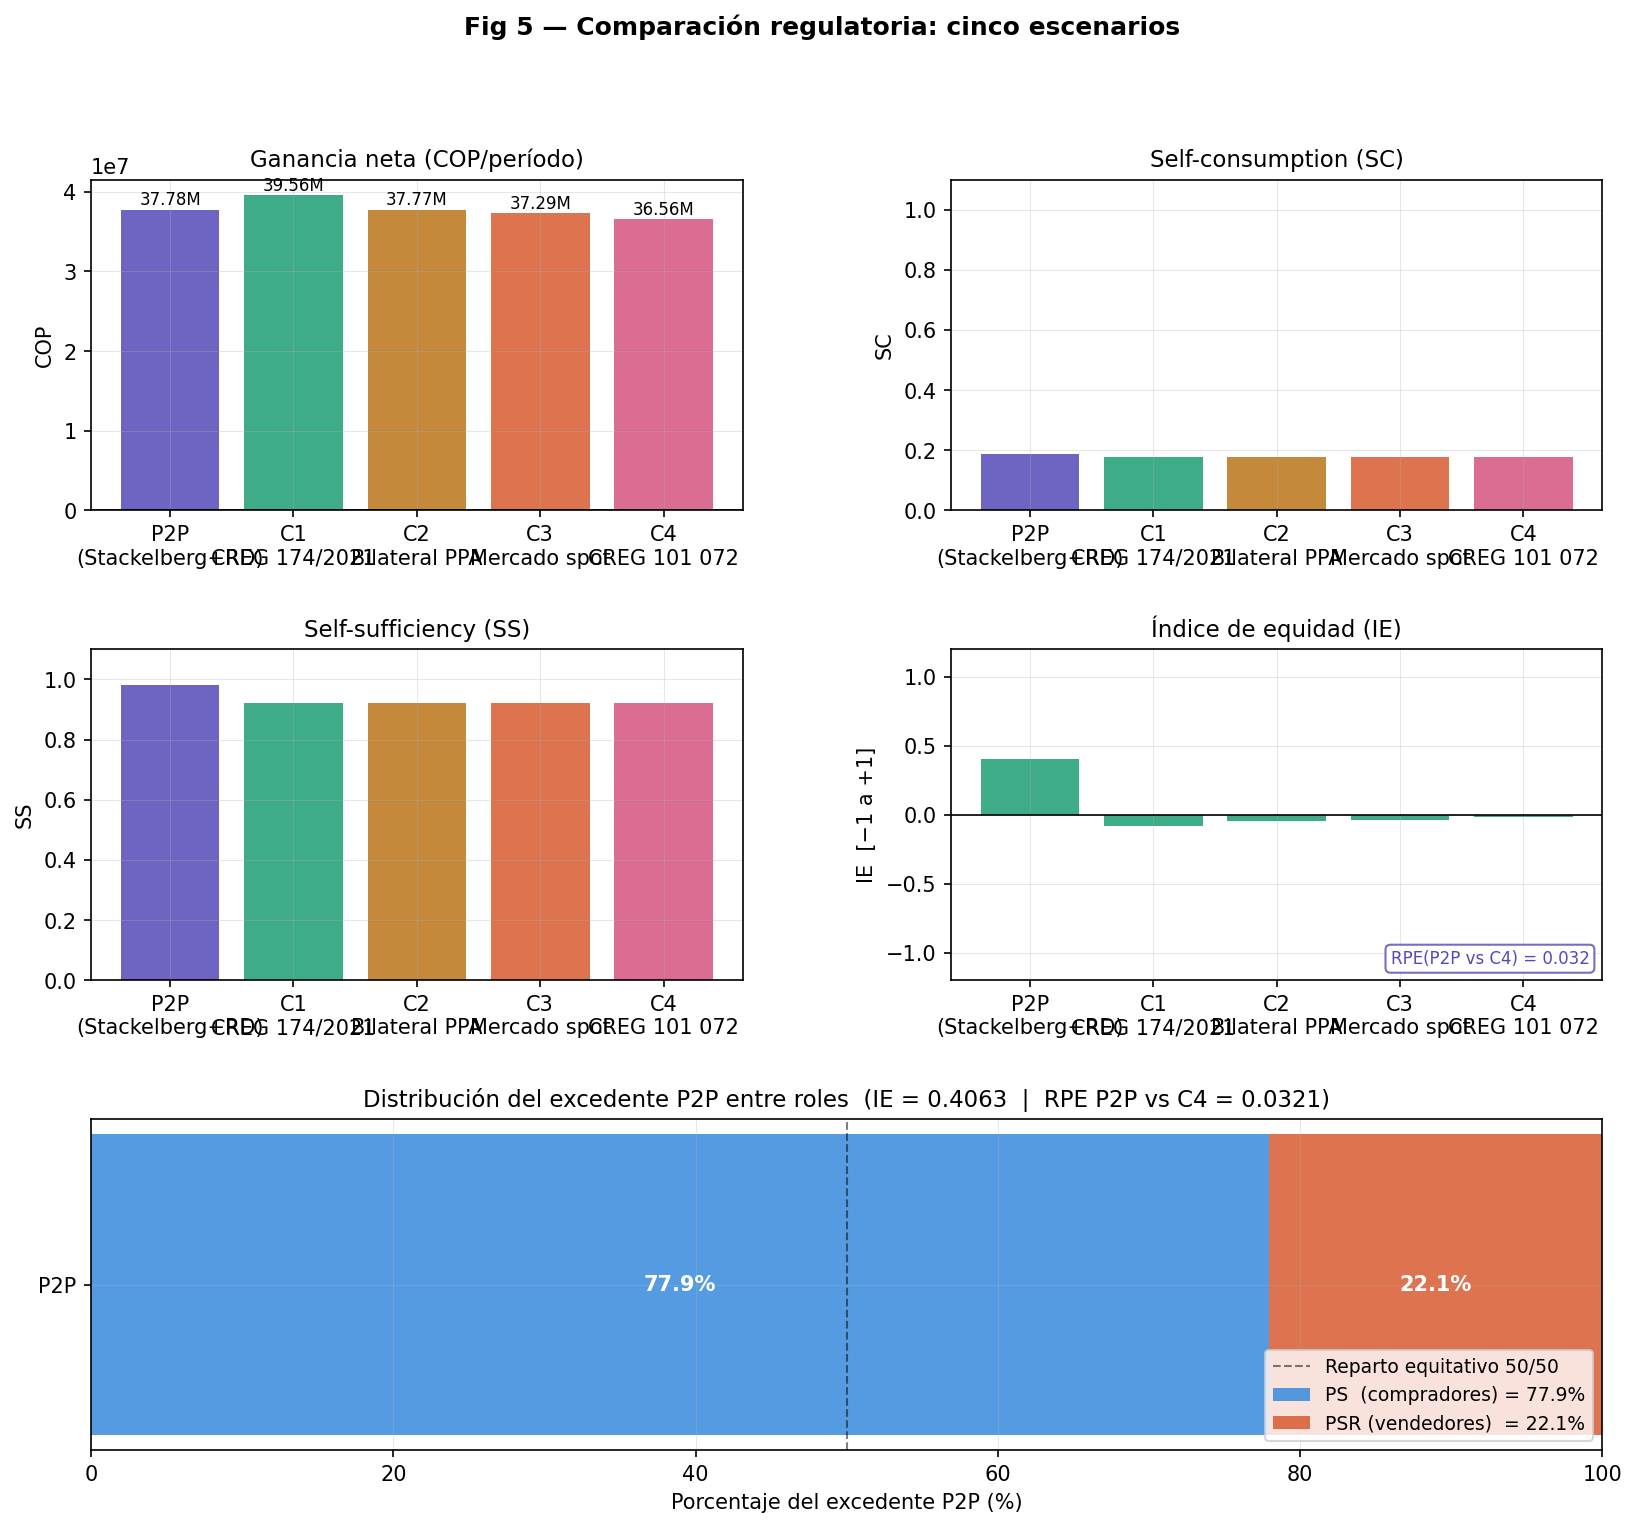
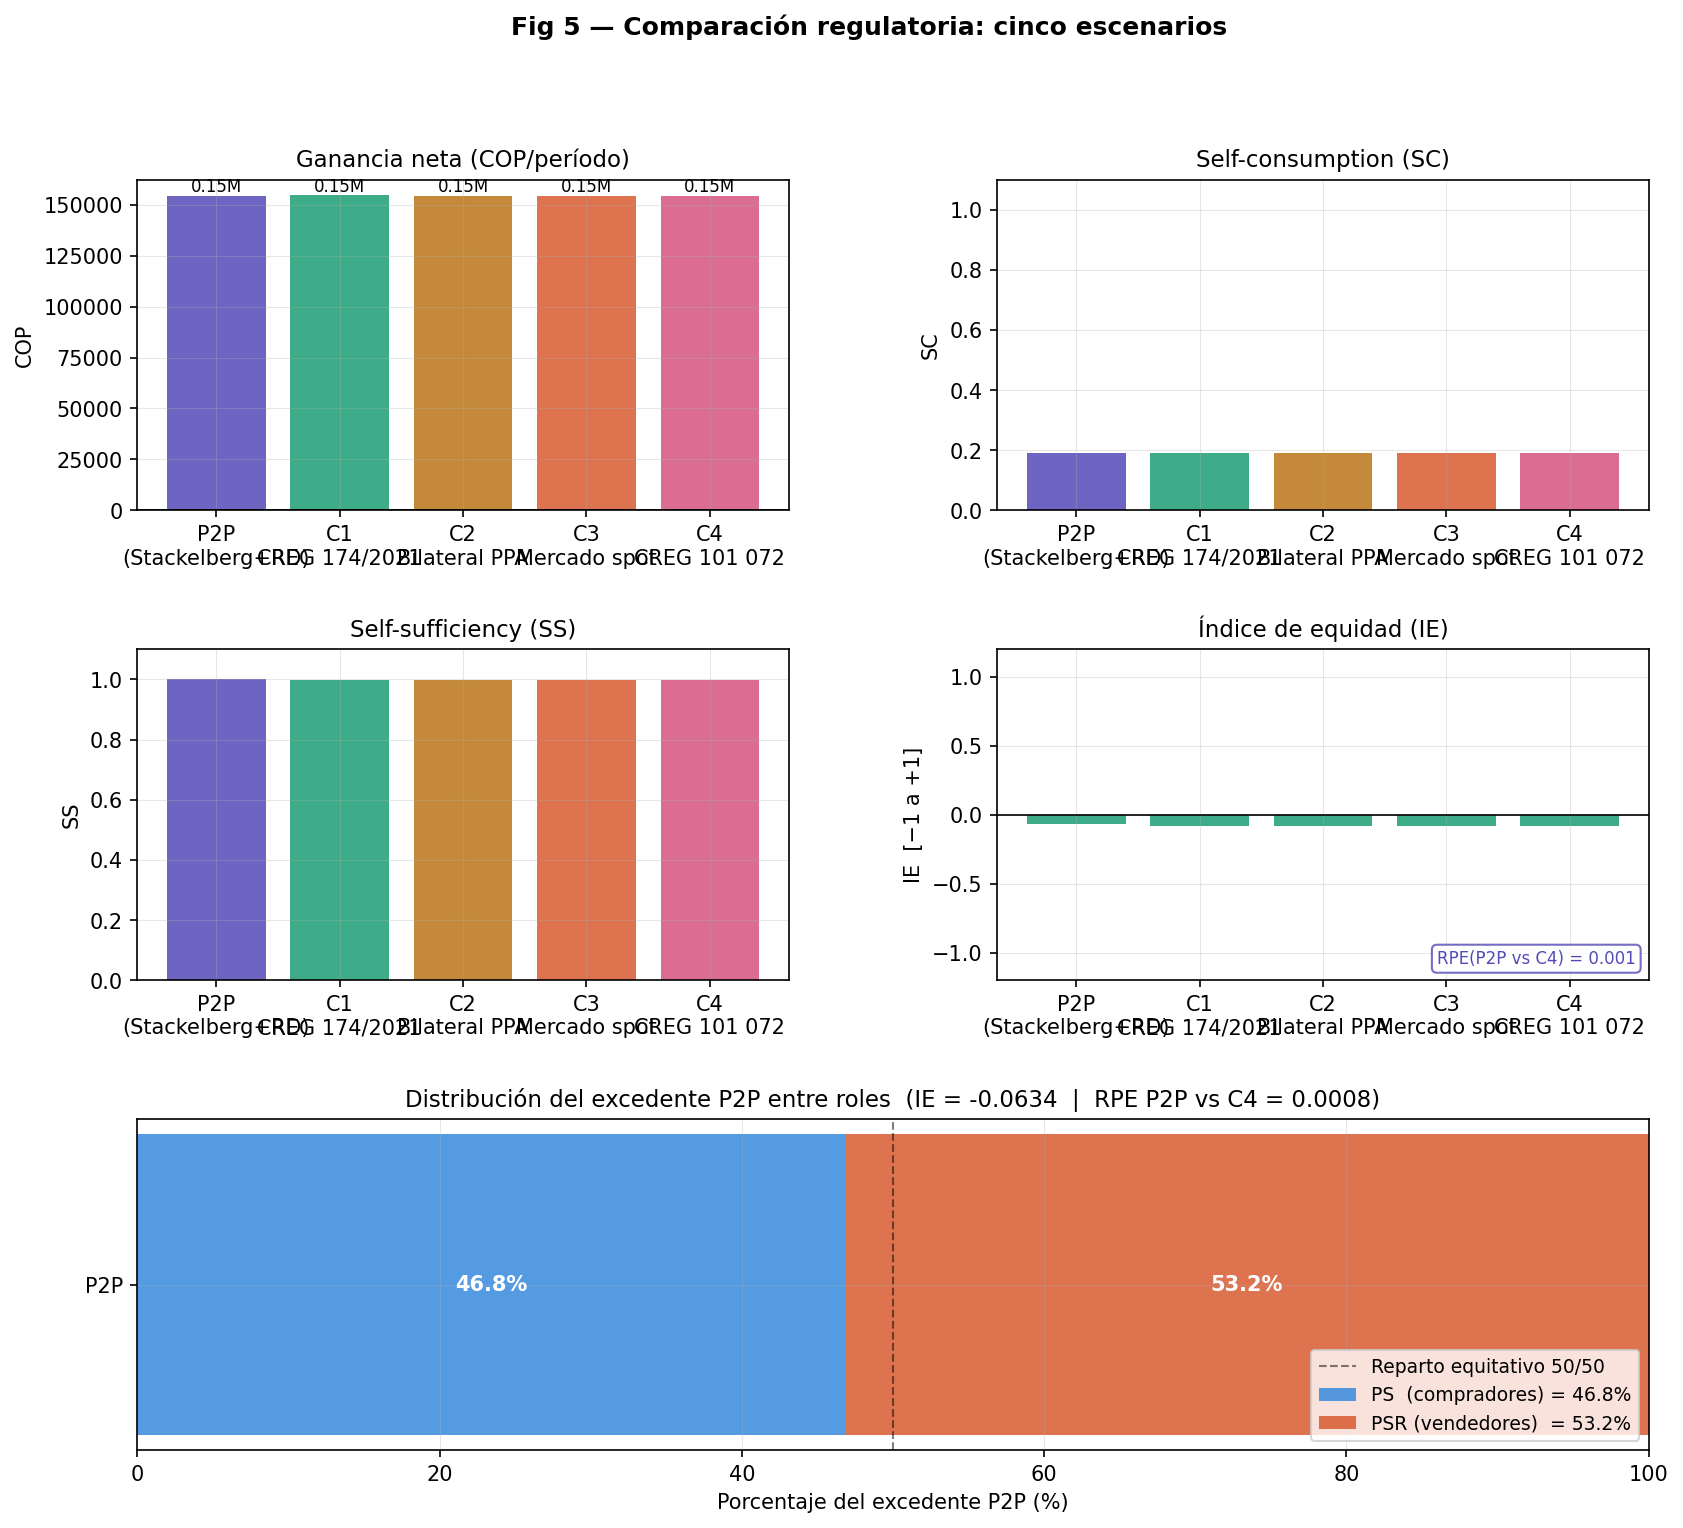
outputs: centraliza salidas de simulacion en outputs/
- main_simulation.py: redirige resultados_comparacion.xlsx,
  resultados_analisis.xlsx y p2p_breakdown.xlsx al directorio
  outputs/ (antes caian en la raiz del proyecto). Smoke tests:
  --data sintetico (12.4 s) y --data real (20.3 s) validados
  contra esta redireccion.
- tests/statistical_tests.py: ajuste menor coherente con la nueva
  ubicacion de las series diarias.
- graficas/fig*.png (8 figuras): regeneradas con datos de
  MedicionesMTE_v3 (perfil promedio diario, 24 h derivadas de las
  6 144 h del horizonte completo).

diff --git a/main_simulation.py b/main_simulation.py
@@ -261,12 +261,14 @@ def main(use_real_data=False, full_horizon=False, run_analysis=False,
     print(f"    Excel → {excel_path}")
 
     from analysis.p2p_breakdown import export_p2p_hourly, print_p2p_sample
+    outputs_dir = os.path.join(base_dir, "outputs")
+    os.makedirs(outputs_dir, exist_ok=True)
     flows_rows, summary_rows = export_p2p_hourly(
         p2p_results=p2p_results,
         agent_names=agent_names,
         pi_gs=grid_params["pi_gs"],
         pi_gb=grid_params["pi_gb"],
-        out_dir=base_dir,
+        out_dir=outputs_dir,
         prefix="p2p_breakdown",
         verbose=True,
     )
@@ -536,7 +538,9 @@ def main(use_real_data=False, full_horizon=False, run_analysis=False,
 # ── Exportar Excel base ───────────────────────────────────────────────────────
 
 def _export_base(cr, p2p_results, G_klim, D, base_dir, currency, daily_series=None):
-    path = os.path.join(base_dir, "resultados_comparacion.xlsx")
+    outputs_dir = os.path.join(base_dir, "outputs")
+    os.makedirs(outputs_dir, exist_ok=True)
+    path = os.path.join(outputs_dir, "resultados_comparacion.xlsx")
     esc  = ["P2P", "C1", "C2", "C3", "C4"]
     N, T = G_klim.shape
     with pd.ExcelWriter(path, engine="openpyxl") as w:
@@ -629,7 +633,9 @@ def _compute_daily_series(
 
 def _export_analysis(sa_pgb, sa_pv, fa_des, fa_creg, thresholds, base_dir, agent_names,
                      fa_ir=None, wr_report=None, sc_risk=None):
-    path = os.path.join(base_dir, "resultados_analisis.xlsx")
+    outputs_dir = os.path.join(base_dir, "outputs")
+    os.makedirs(outputs_dir, exist_ok=True)
+    path = os.path.join(outputs_dir, "resultados_analisis.xlsx")
     with pd.ExcelWriter(path, engine="openpyxl") as w:
         if sa_pgb:
             rows = []

diff --git a/tests/statistical_tests.py b/tests/statistical_tests.py
@@ -45,7 +45,7 @@ import pandas as pd
 
 ROOT        = os.path.dirname(os.path.dirname(os.path.abspath(__file__)))
 OUTPUTS_DIR = os.path.join(ROOT, "outputs")          # logs y checkpoints GSA
-RESULTS_XL  = os.path.join(ROOT, "resultados_comparacion.xlsx")  # salida base del EMS
+RESULTS_XL  = os.path.join(OUTPUTS_DIR, "resultados_comparacion.xlsx")  # salida base del EMS
 
 
 # ── Bootstrap por bloques ──────────────────────────────────────────────────────
@@ -252,7 +252,7 @@ def save_bootstrap_results(result: dict, seed: int = 42, out_dir: str = None):
         json.dump(result, f, indent=2, ensure_ascii=False)
 
     # Excel
-    xl_path = os.path.join(ROOT, "resultados_tests.xlsx")
+    xl_path = os.path.join(OUTPUTS_DIR, "resultados_tests.xlsx")
     df = pd.DataFrame([result])
     with pd.ExcelWriter(xl_path, engine="openpyxl") as w:
         df.to_excel(w, sheet_name="Bootstrap_P2P_vs_C4", index=False)
